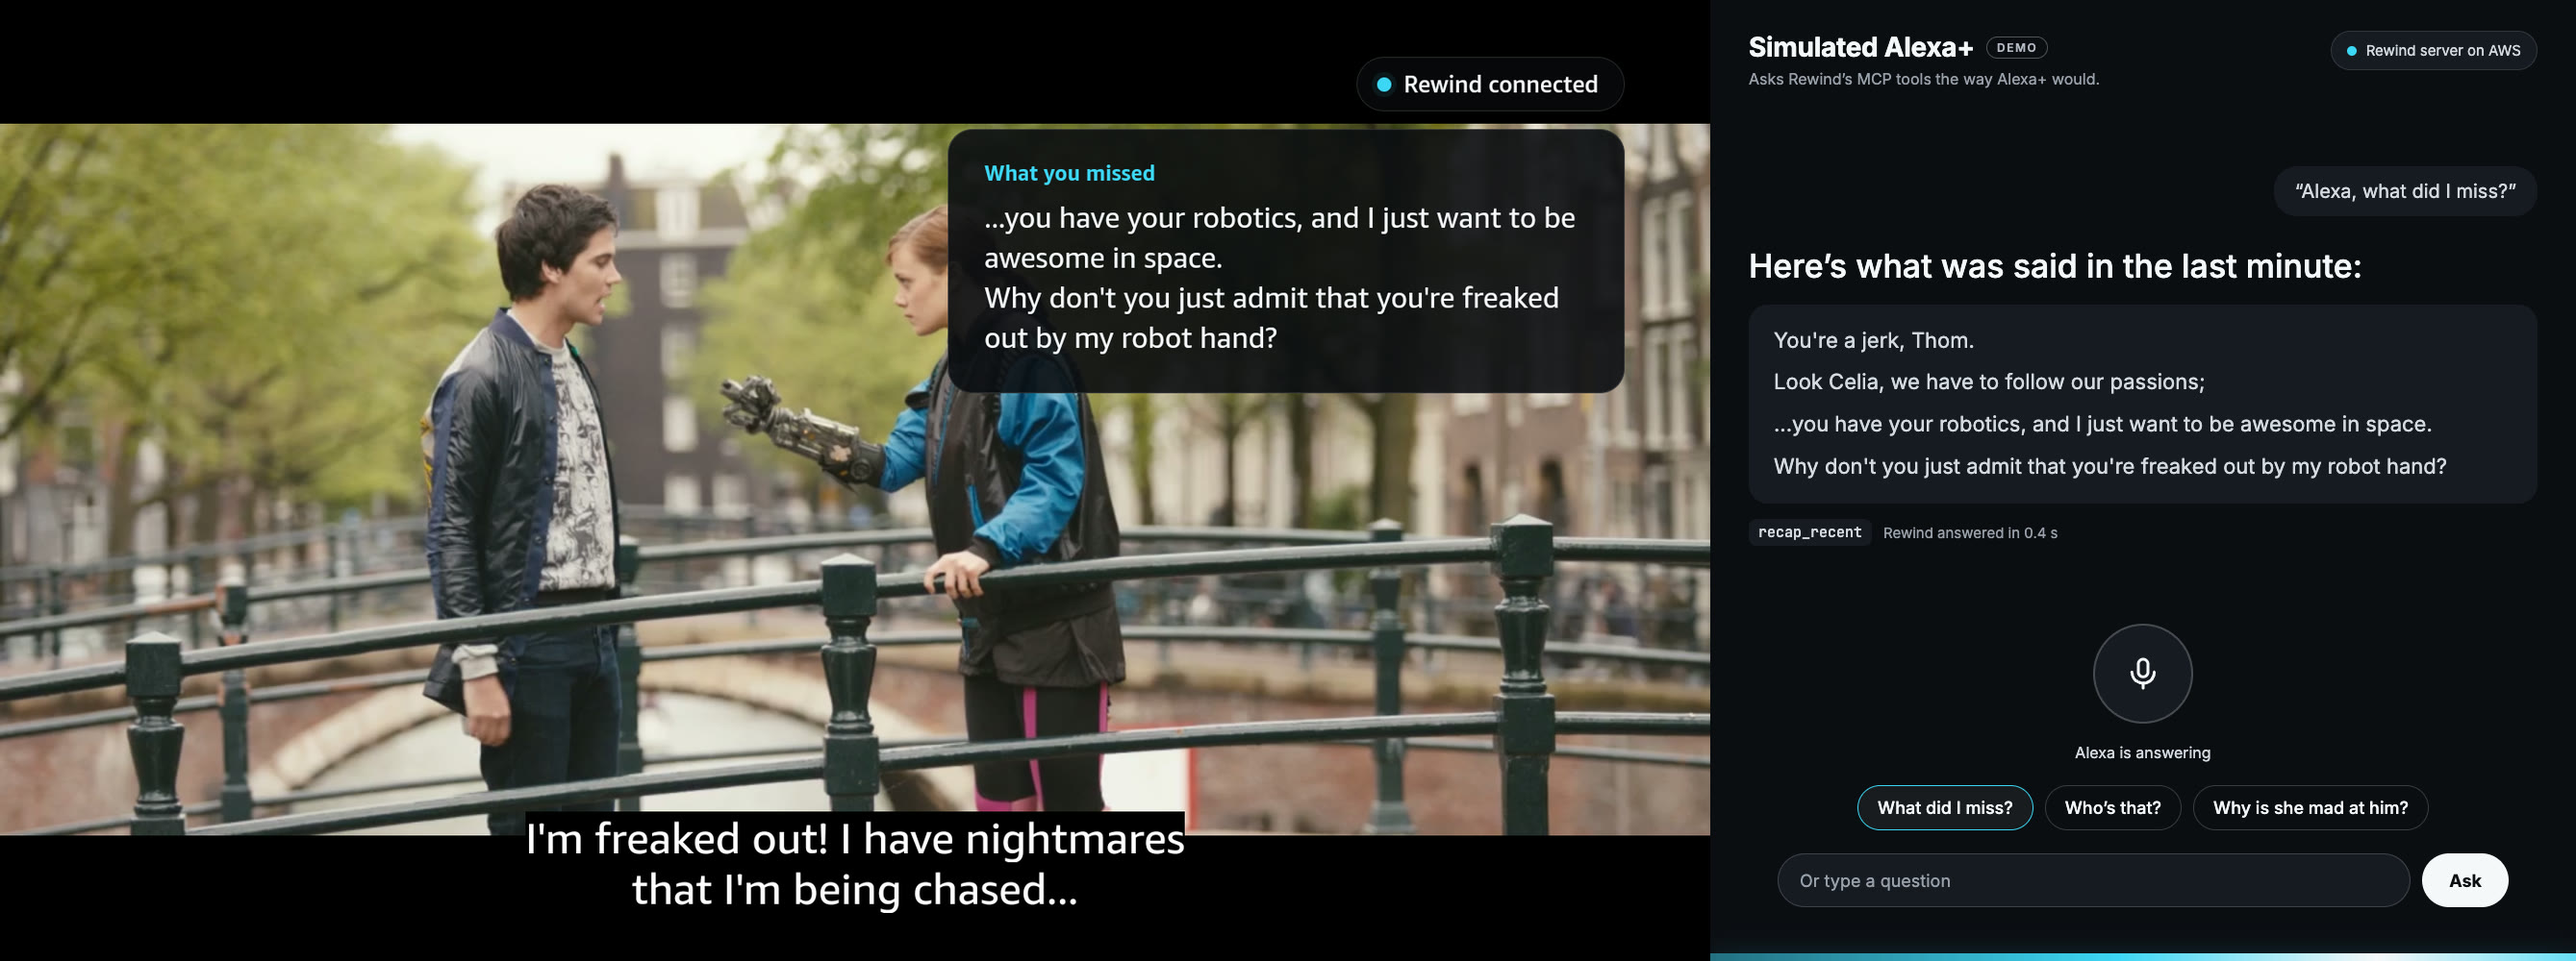
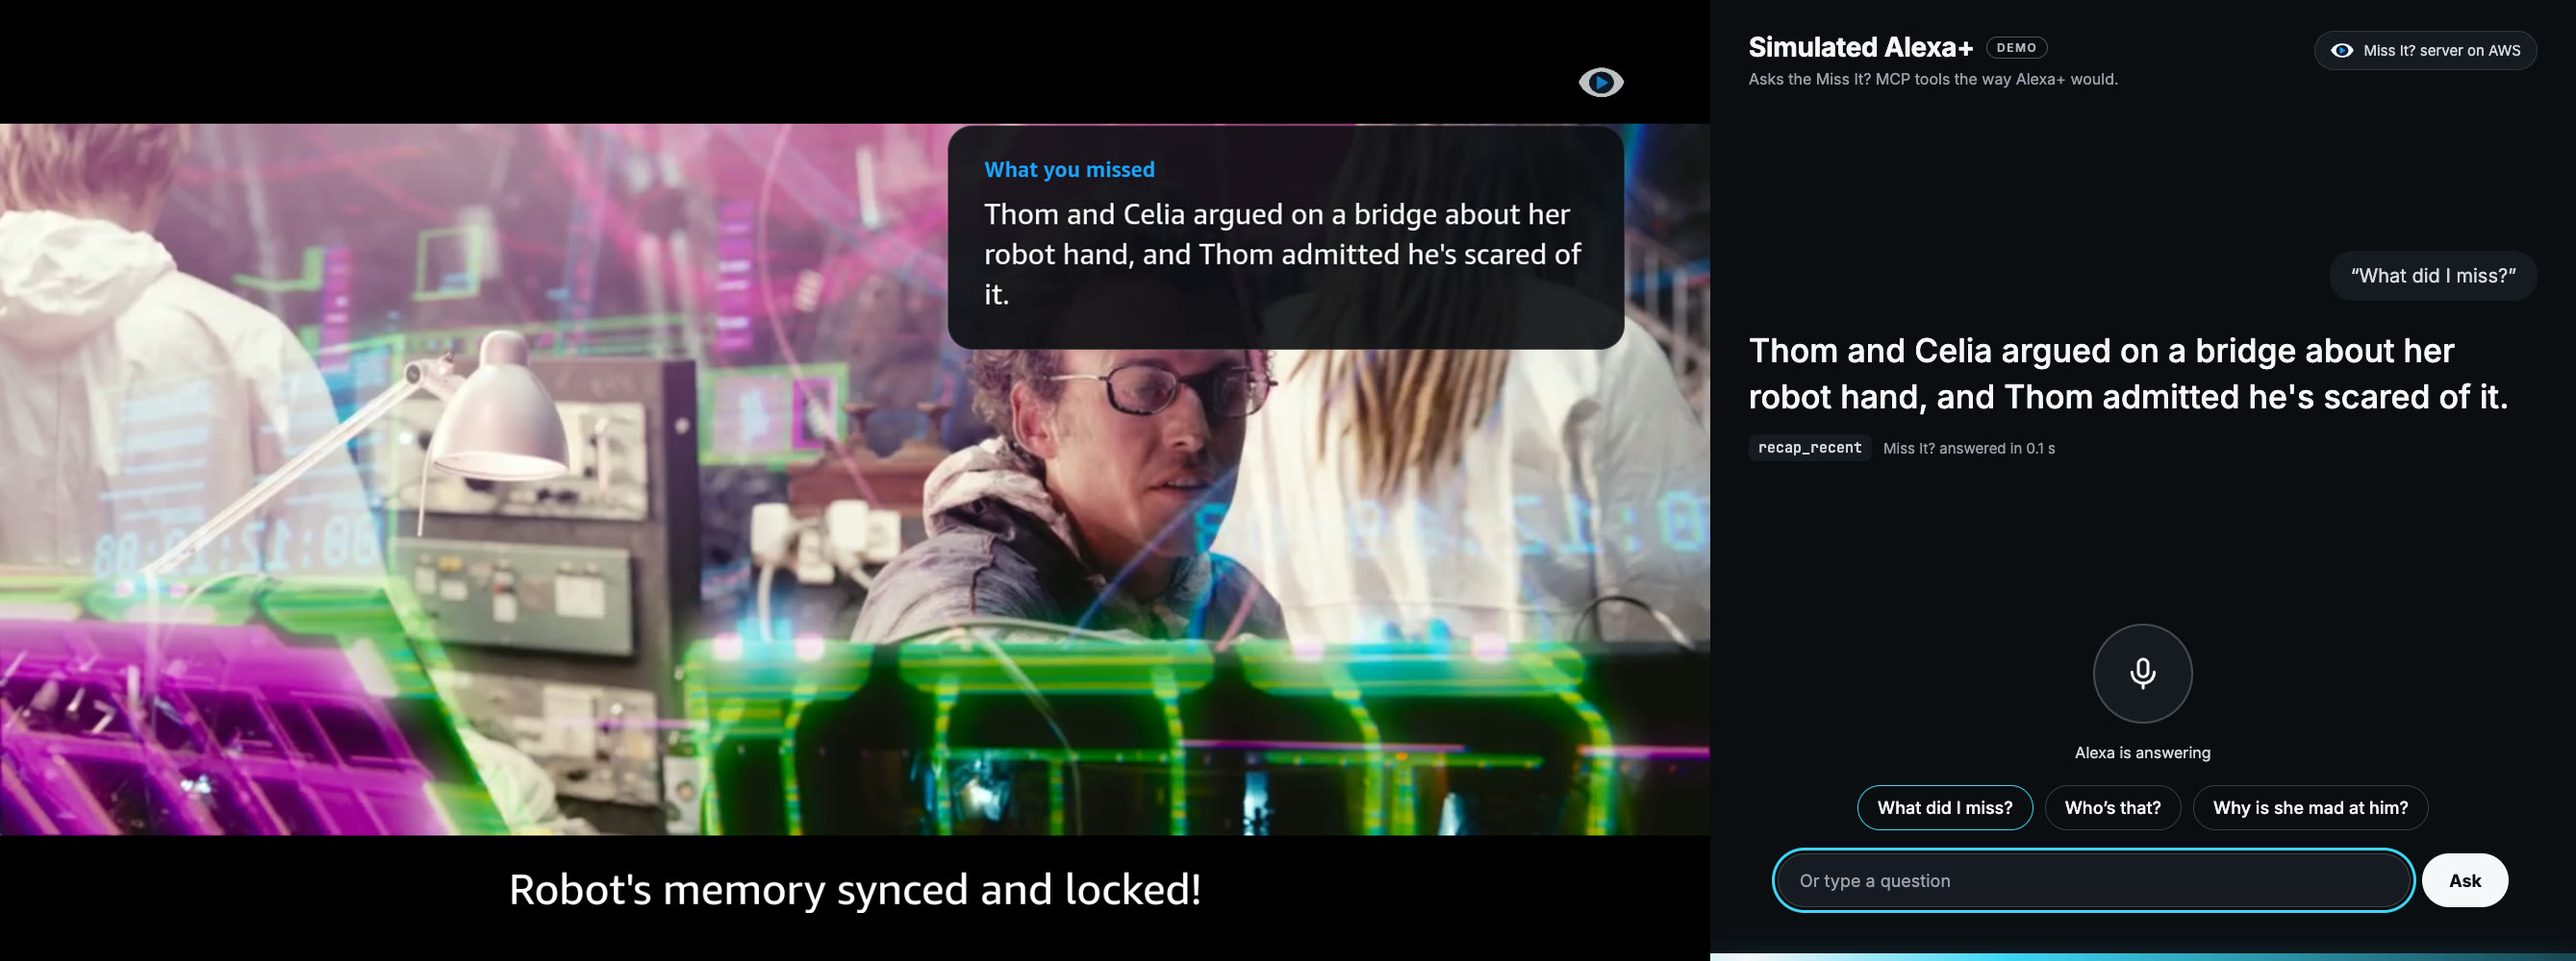
Retake the demo screenshot with a Nova recap

diff --git a/alexa-sim/README.md b/alexa-sim/README.md
@@ -4,7 +4,7 @@ A stand-in for Alexa+ in the Miss It? demo. Ask it about what's on the TV, out l
 
 ![The Fire TV app showing a "What you missed" card while the simulated Alexa+ page answers the same question](screenshots/demo.jpg)
 
-The Fire TV app in the Vega Virtual Device on the left, and this page on the right, right after "Alexa, what did I miss?". While the Miss It? model is unavailable, both fall back to the dialogue.
+The Fire TV app in the Vega Virtual Device on the left, and this page on the right, right after "Alexa, what did I miss?". Both show the recap Amazon Nova wrote while the film played.
 
 ## Why it's simulated
 
